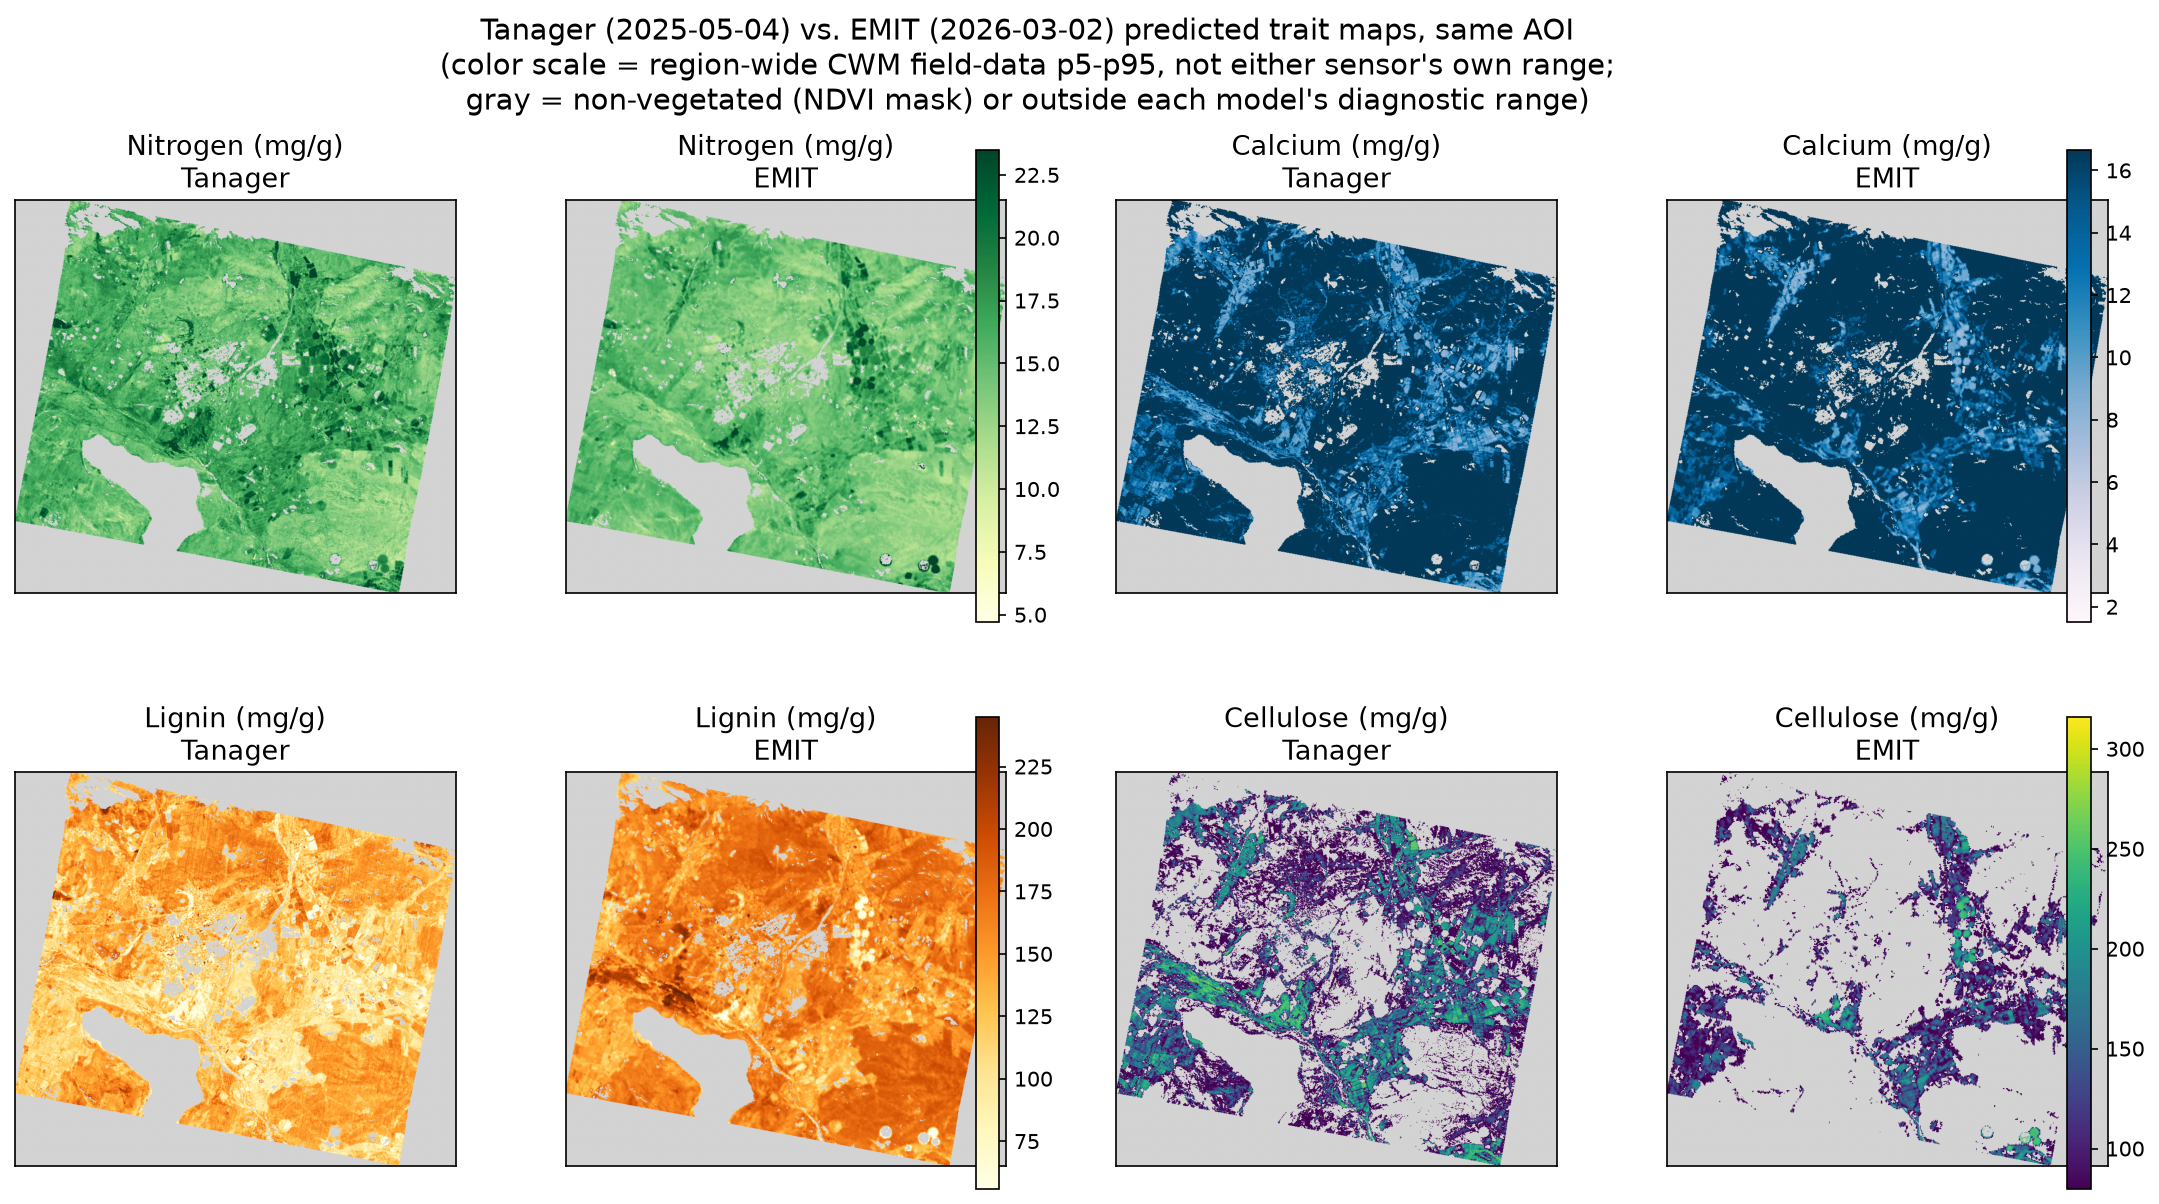
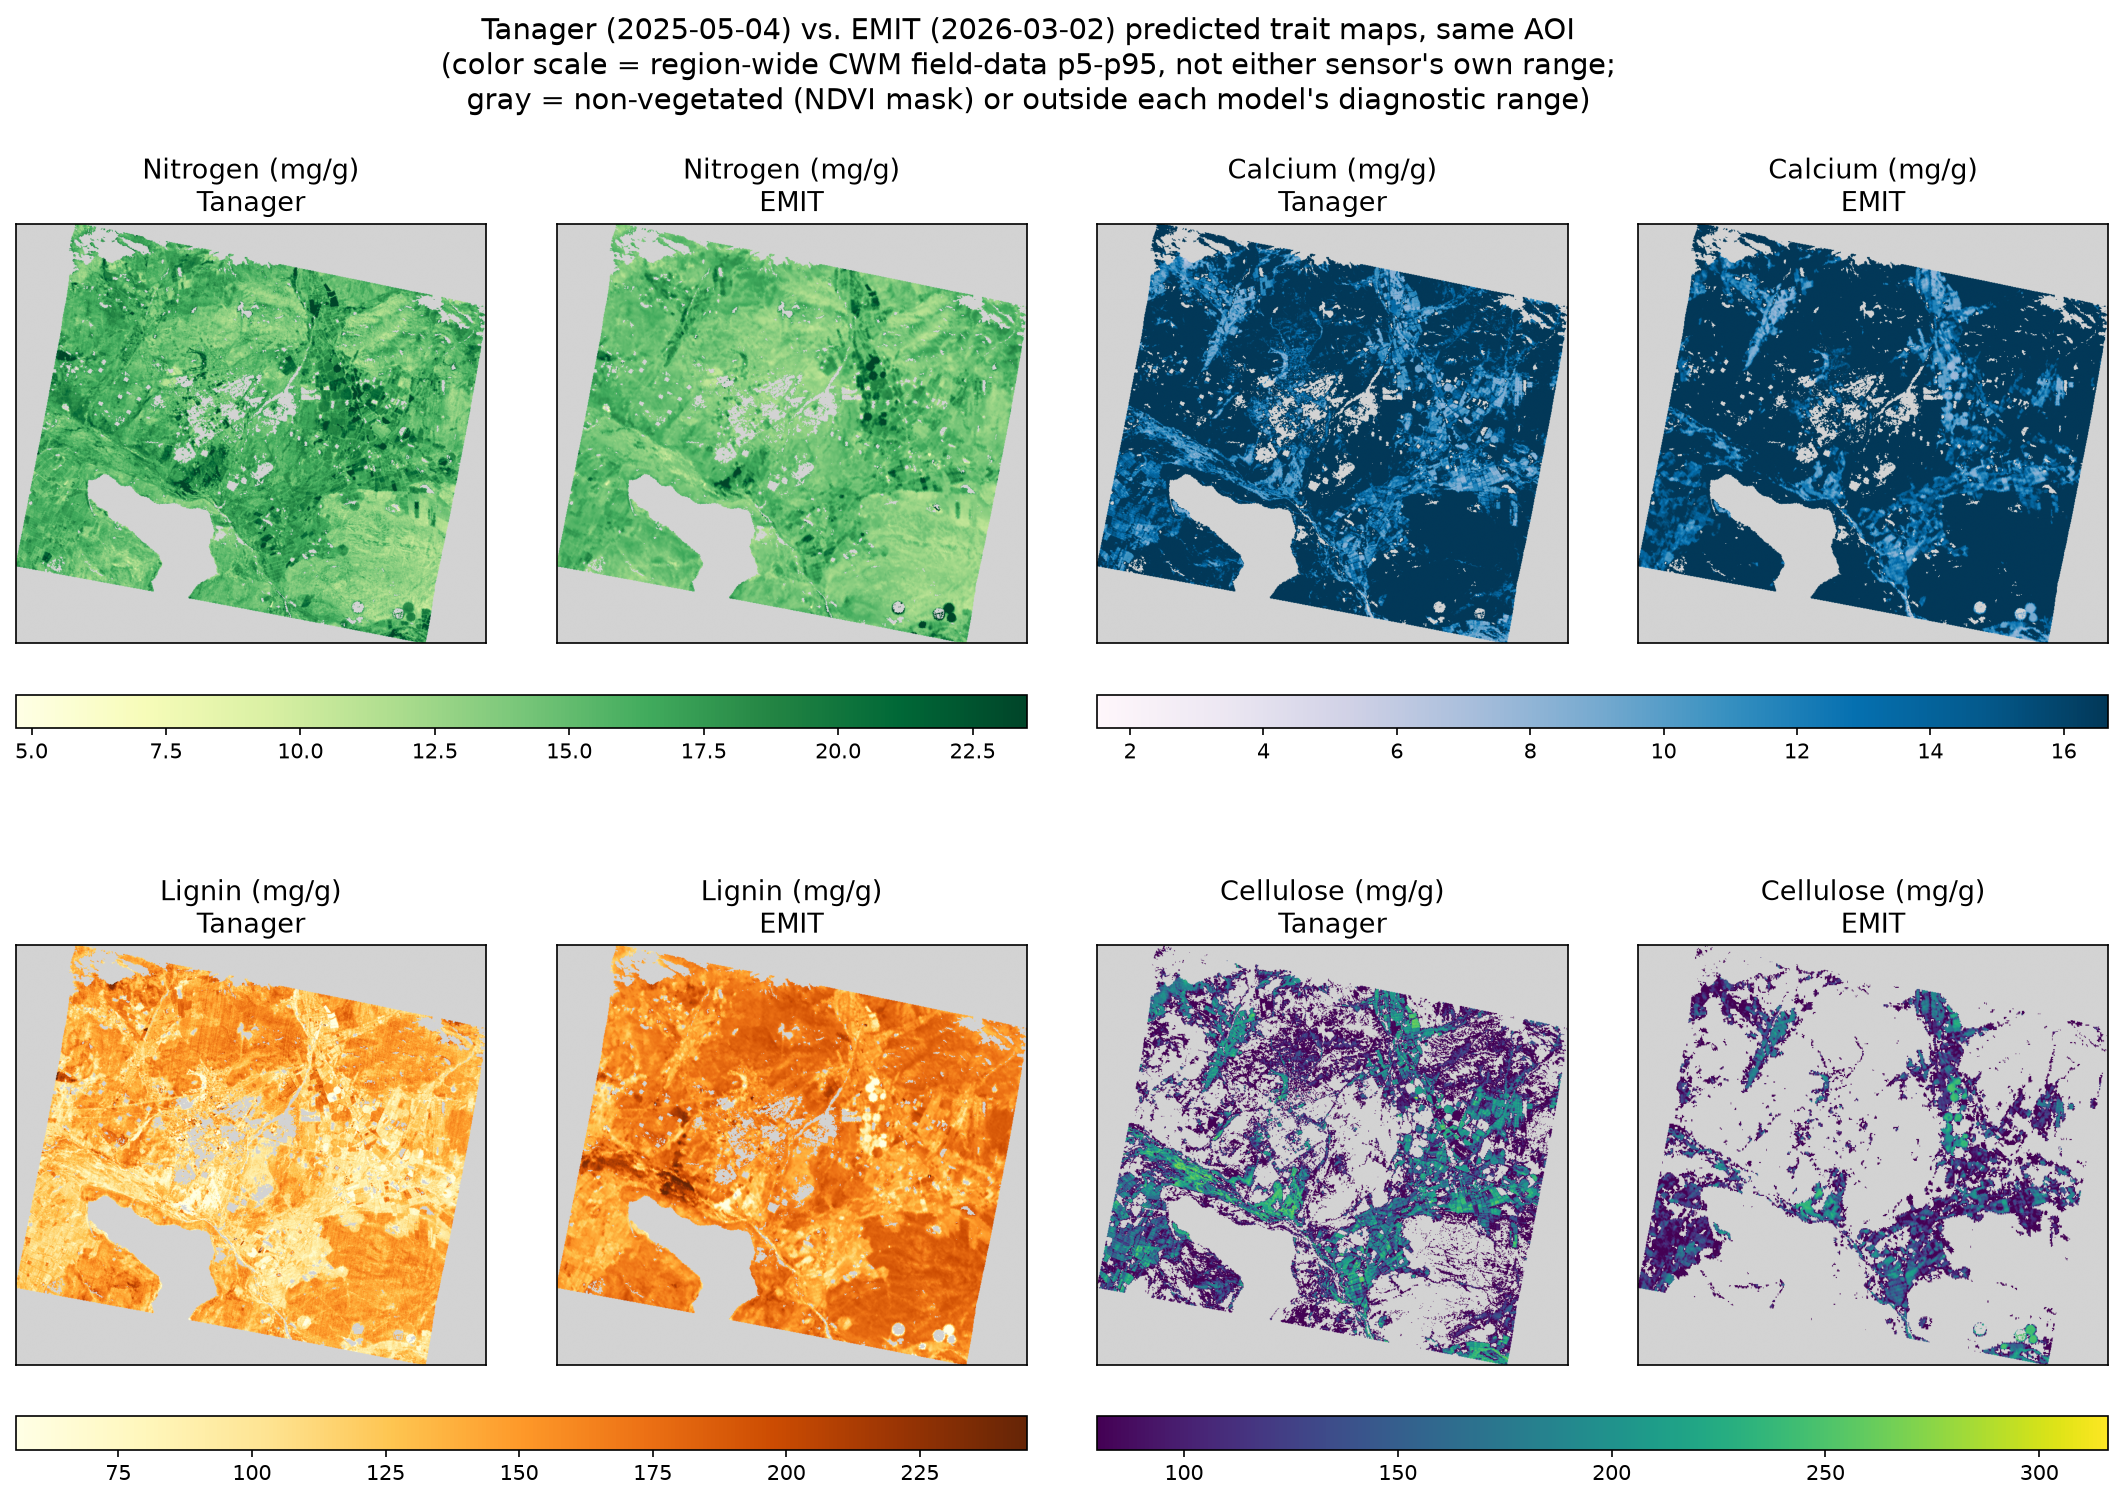
Horizontal colorbars for EMIT map grid; drop internal-only appendix
Figure 5's colorbars moved from thin vertical strips wedged between
panel columns to a single horizontal bar spanning each trait's
Tanager+EMIT pair, underneath both maps -- less cramped. Removed the
"Open items before submission" appendix, which was internal working
notes not meant for the competition audience.

diff --git a/code/step11_tanager_emit_sidebyside_maps.py b/code/step11_tanager_emit_sidebyside_maps.py
@@ -32,6 +32,7 @@ from rasterio.warp import reproject, Resampling
 import matplotlib
 matplotlib.use("Agg")
 import matplotlib.pyplot as plt
+from matplotlib.gridspec import GridSpec
 
 TRAIT_OUTPUT_DIR = "/Volumes/Enspec/projects/BioScape/tanager_competition/trait_outputs/"
 FIGURES_DIR = "/Volumes/Enspec/projects/BioScape/tanager_competition/figures/"
@@ -92,12 +93,20 @@ def main():
     veg_mask = load_veg_mask()
     # 2 rows x 4 cols (two trait-pairs per row) instead of 4 rows x 2 cols --
     # the tall 1-column layout left large blank gaps when scaled to page
-    # width in the report (2026-08-29, per Henry's review).
-    fig, axes = plt.subplots(2, 4, figsize=(18, 9))
+    # width in the report (2026-08-29, per Henry's review). Colorbars moved
+    # from thin vertical strips wedged between panel columns to a single
+    # horizontal bar spanning each trait's Tanager+EMIT pair, underneath
+    # both maps (2026-08-29, per Henry's review) -- reads less cramped.
+    fig = plt.figure(figsize=(18, 11))
+    gs = GridSpec(5, 4, figure=fig, height_ratios=[1, 0.07, 0.3, 1, 0.07], hspace=0.1, wspace=0.15)
 
     for i, (label, stem, units, (lo, hi), cmap_name) in enumerate(TRAITS):
-        row, pair = divmod(i, 2)
-        ax_t, ax_e = axes[row, pair * 2], axes[row, pair * 2 + 1]
+        pair_row, pair = divmod(i, 2)
+        img_row = 0 if pair_row == 0 else 3
+        col0, col1 = pair * 2, pair * 2 + 1
+        ax_t = fig.add_subplot(gs[img_row, col0])
+        ax_e = fig.add_subplot(gs[img_row, col1])
+        cax = fig.add_subplot(gs[img_row + 1, col0:col1 + 1])
         cmap = matplotlib.colormaps[cmap_name].copy()
         cmap.set_bad("lightgray")
 
@@ -115,10 +124,10 @@ def main():
         ax_t.set_xticks([]); ax_t.set_yticks([])
         ax_e.set_xticks([]); ax_e.set_yticks([])
 
-        cbar = fig.colorbar(im, ax=[ax_t, ax_e], fraction=0.04, pad=0.03)
+        cbar = fig.colorbar(im, cax=cax, orientation="horizontal")
         cbar.ax.tick_params(labelsize=10)
 
-    fig.subplots_adjust(hspace=0.3, wspace=0.25, top=0.86)
+    fig.subplots_adjust(top=0.87)
     fig.suptitle(
         "Tanager (2025-05-04) vs. EMIT (2026-03-02) predicted trait maps, same AOI\n"
         "(color scale = region-wide CWM field-data p5-p95, not either sensor's own range;\n"

diff --git a/writeup/report_draft.md b/writeup/report_draft.md
@@ -344,52 +344,3 @@ City, UT, USA (pp. 10-13).
 All paths are relative to `writeup/`; every file above is committed to
 this repo under `writeup/figures/`.
 
-## Appendix: Open items before submission
-
-- [x] Cut the old "Validation, reframed" section (redundant with the
-      CWM-overlap point already made in Section 3 and the AVIRIS-NG
-      coverage point in Section 5) — folded its one new fact, the GCFR
-      leaf-sample survey's zero overlap, into Section 3 instead.
-      Renumbered Sections 6-7 accordingly.
-- [x] FWHM-curve-comparison figure built and added (Figure 2, Section 2):
-      real per-band FWHM, Tanager (this scene) vs. AVIRIS-NG (BioSCape
-      flightline) — Tanager 5.20-6.81nm, AVIRIS-NG 5.57-6.03nm, 62% of
-      Tanager bands wider, crossover ~1750nm. Worth including.
-- [x] Cellulose dropped from the ternary composite (Figure 3, now
-      Nitrogen/Lignin/Calcium) but kept as a caveated table row — weakest
-      of the four kept traits, passing its own diagnostic range check on
-      only 53% of vegetated pixels.
-- [x] BioSCape/AVIRIS-NG citations and DOI added (Cardoso et al. 2025,
-      Kovach et al. 2025) — pulled from
-      `Manuscripts/bioscape_trait_map_V1_DAAC.docx`.
-- [x] BioSCape trait-map product itself now cited as "Frye et al., in
-      review" throughout (Henry: fine to cite in-review, likely public by
-      the time Planet reviews this) — DOI still pending, fill in once
-      assigned.
-- [x] SHIFT training data corrected: confirmed with Ting that the
-      `spectrometer: "avc+neon"` tag was a stale artifact from a WDTS
-      script, left in by mistake — SHIFT model is trained on SHIFT field
-      data + AVIRIS-NG only, same platform as BioSCape. Fixed everywhere
-      it was mentioned (sensors table, Trait models paragraph, Section 6).
-- [x] SHIFT campaign/mission citation added (Chadwick et al. 2025,
-      Ecosphere — Ting Zheng, who confirmed the training-data question,
-      is a co-author).
-- [x] SHIFT imagery citation confirmed and added: Brodrick et al.
-      2023, SHIFT AVIRIS-NG L2A Unrectified Surface Reflectance V1, ORNL
-      DAAC, DOI 10.3334/ORNLDAAC/2376 -- Ting confirmed this is the
-      exact product used for training, matching the DAAC documentation.
-- [x] Tanager platform citation added (Guido et al. 2025, Small Satellite Conference).
-- [x] All report figures now actually embedded as images (Figures 2-8),
-      not just described in bracketed placeholder text -- copied from
-      Enspec into writeup/figures/, ternary composite rendered fresh
-      (field-referenced version, distinct from the README's
-      scene-normalized banner).
-- [x] Figure 1 fixed: the original PNG conversion (via macOS `sips`)
-      silently rotated the source PDF 90 degrees (portrait output from a
-      landscape source) -- re-rendered with `pdftoppm` (poppler)
-      instead, which handles this PDF's page geometry correctly.
-- [x] Flight-box/sample-site figure embedded (Section 1, Figure 1) —
-      `writeup/figures/bioscape_sampling.png`, sourced from Henry's
-      `bioscape_sampling.pdf`. PNG committed to the repo for
-      Markdown/GitHub rendering; swap in the PDF for the final
-      submission for vector quality.
